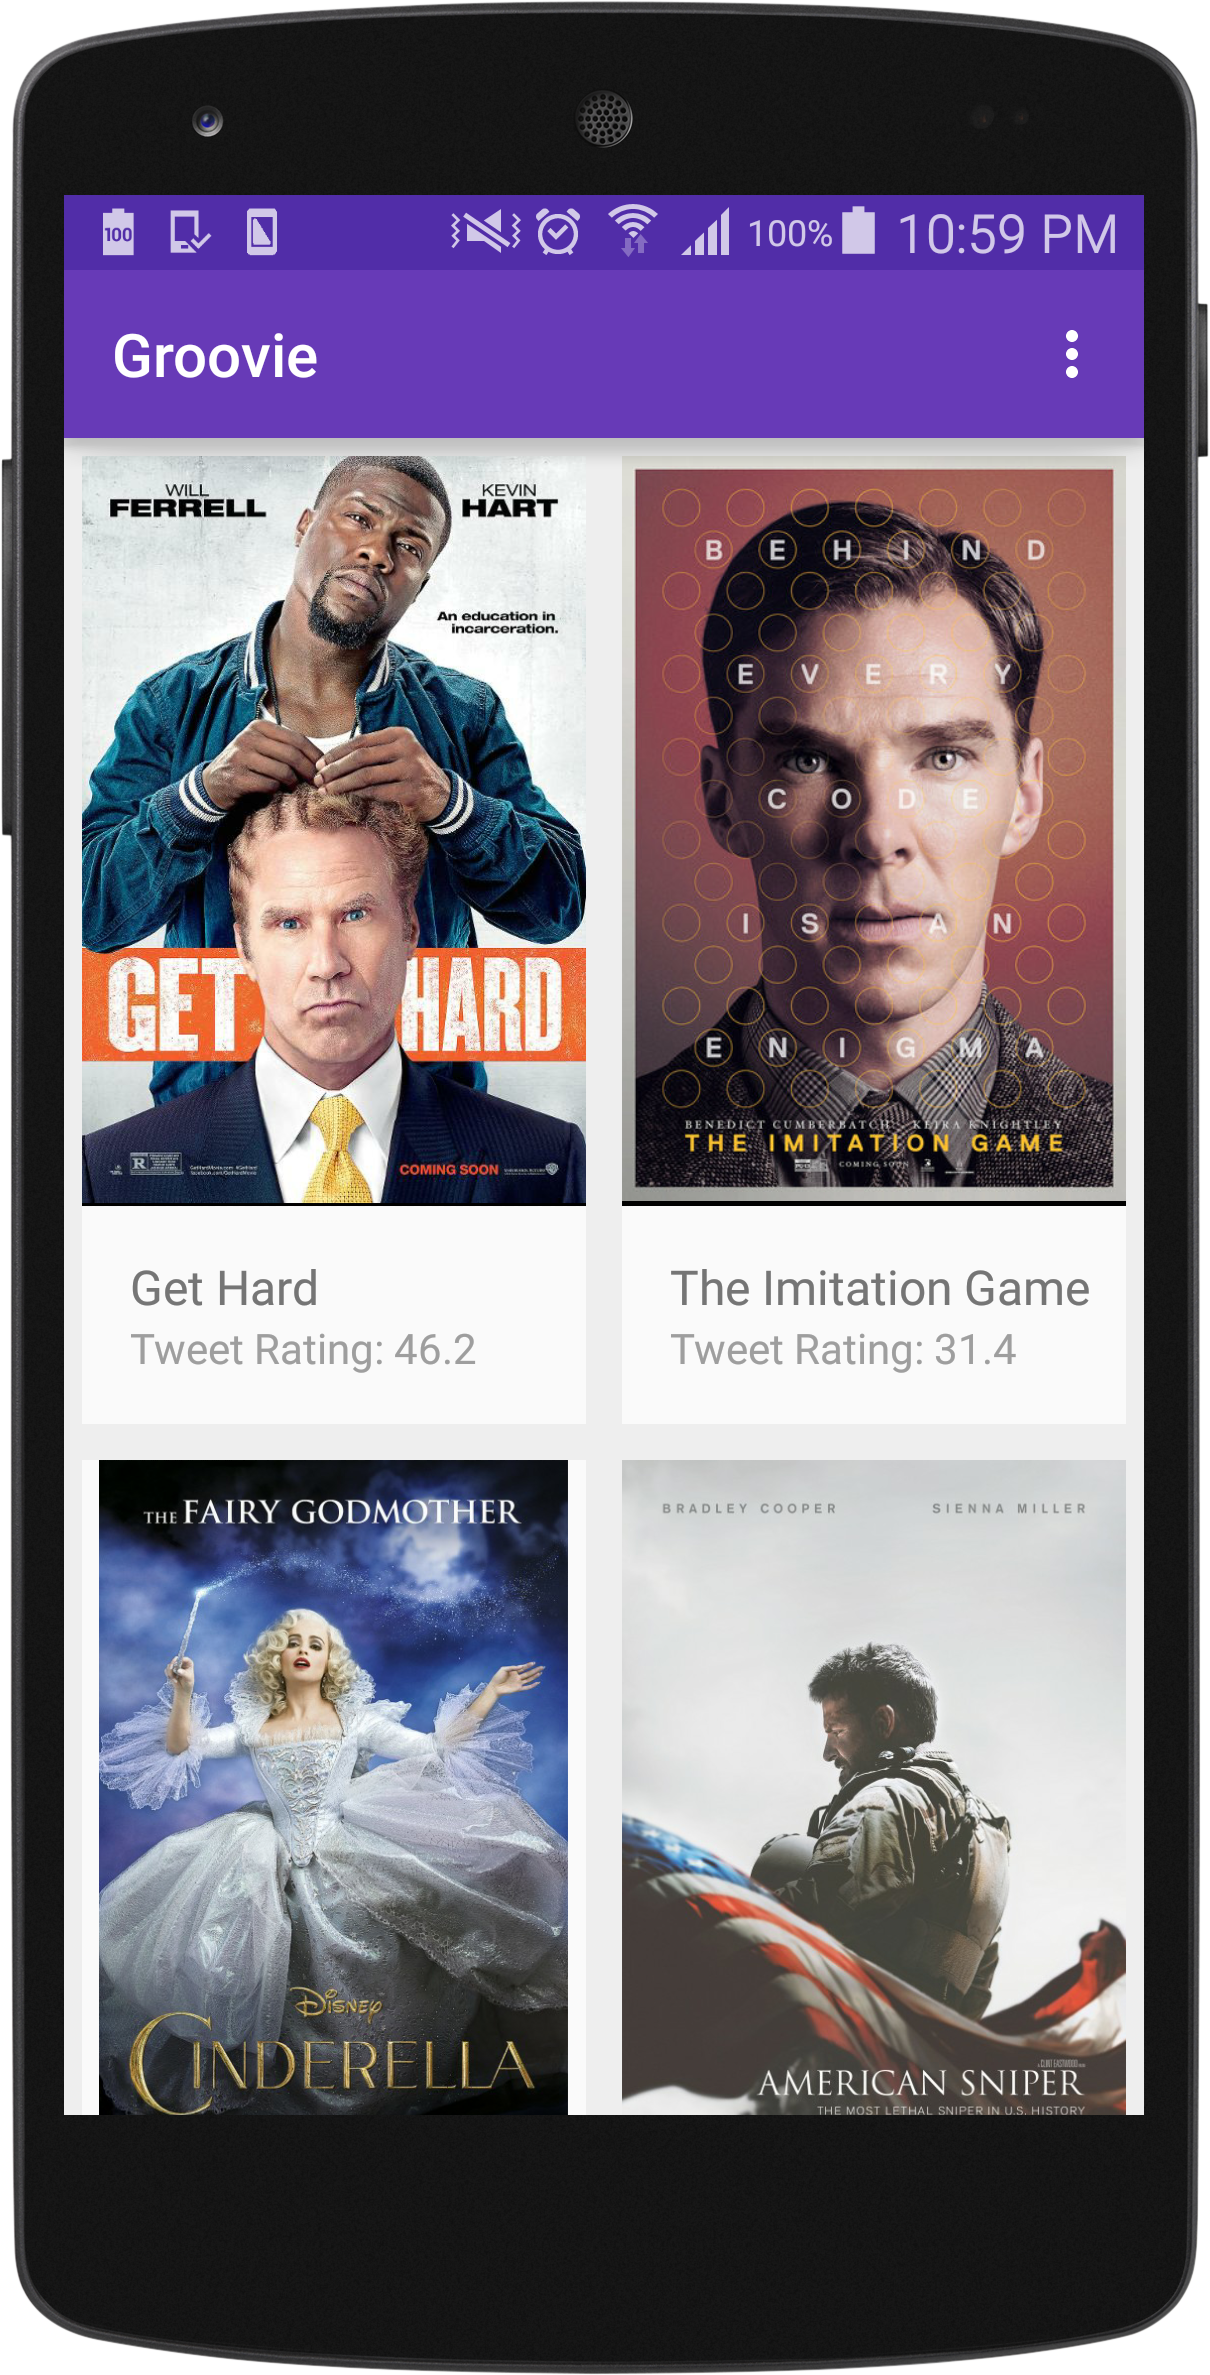
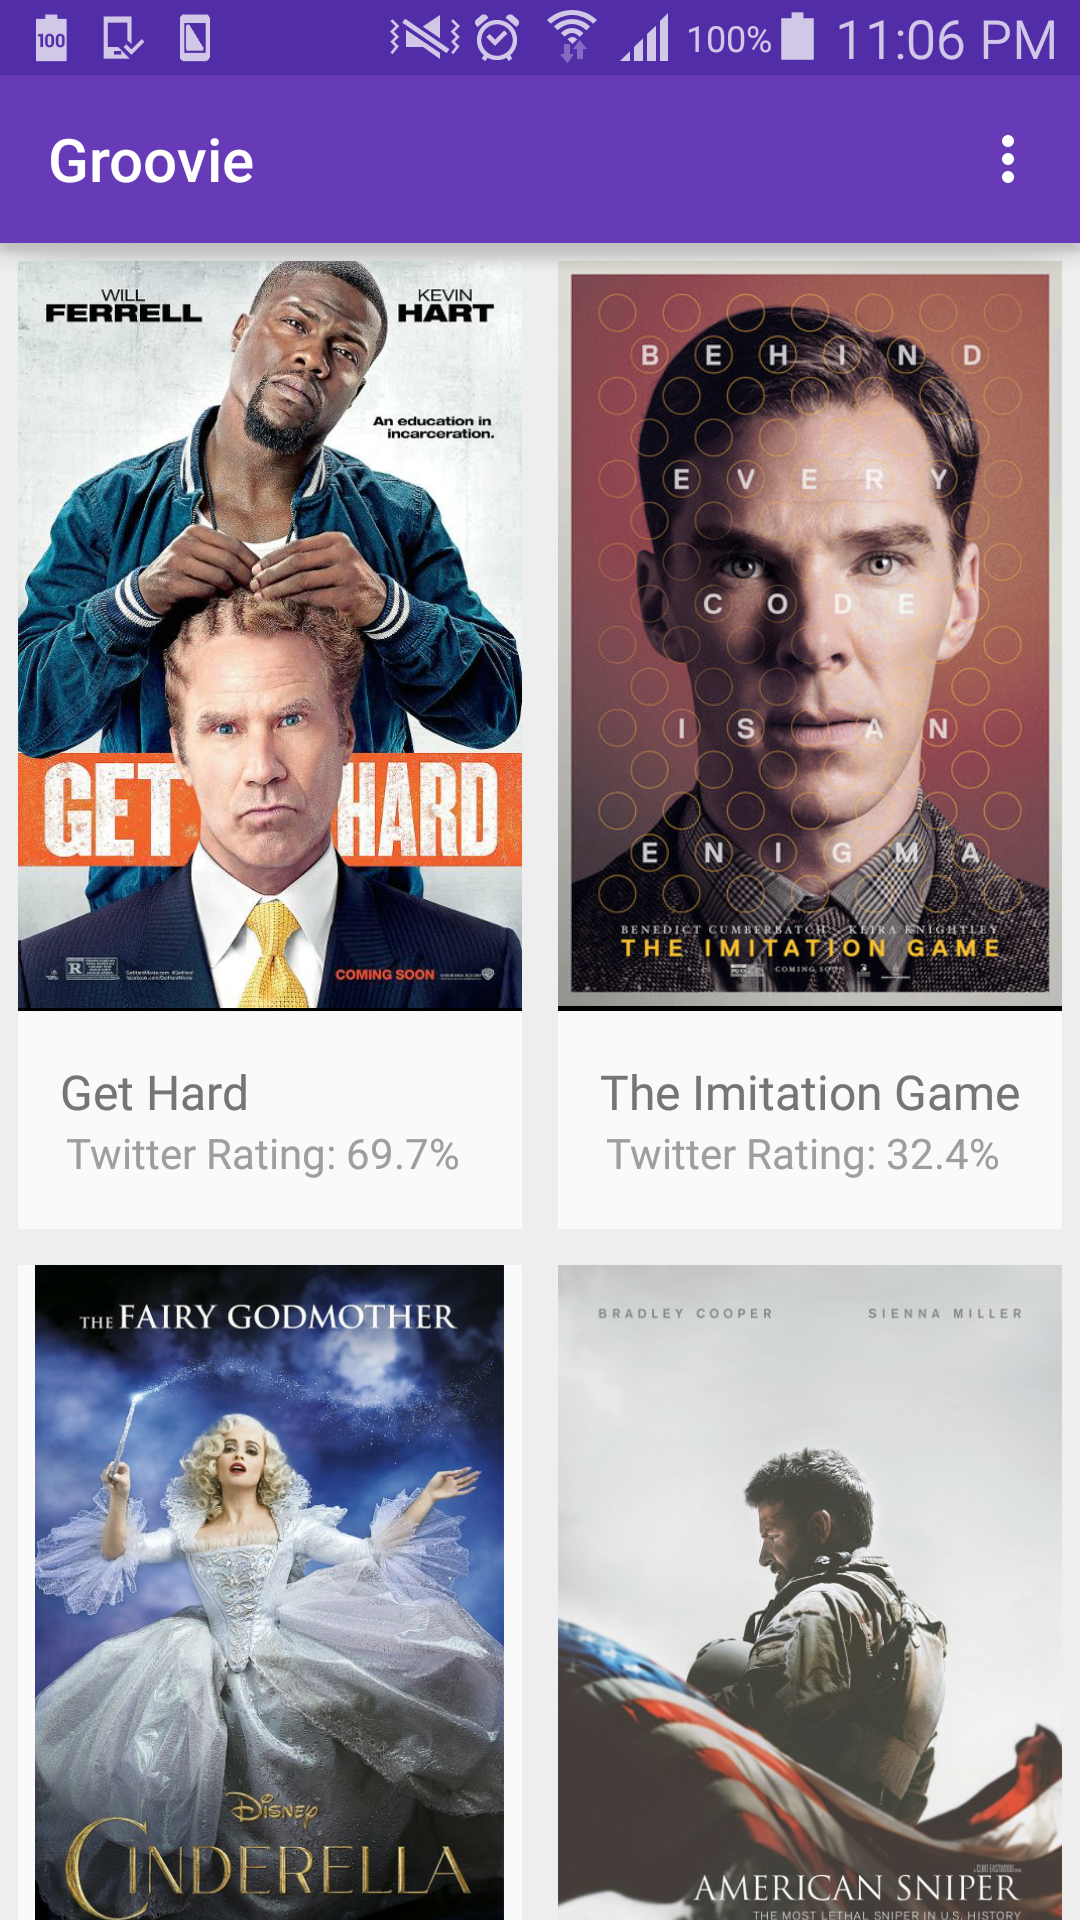
new image

diff --git a/GroovieApp/app/src/main/java/me/groovie/groovieapp/MovieDetailFragment.java b/GroovieApp/app/src/main/java/me/groovie/groovieapp/MovieDetailFragment.java
@@ -60,7 +60,7 @@ public class MovieDetailFragment extends Fragment {
         //android.support.v7.widget.CardView cardView = (android.support.v7.widget.CardView) bannerView.findViewById(R.id.banner_cardview);
 
         TextView ratingTextView = (TextView) bannerView.findViewById(R.id.movie_rating_textview);
-        ratingTextView.setText(rating);
+        ratingTextView.setText("Twitter Rating: "+ rating+"%");
 
         listView.addHeaderView(bannerView);
         ArrayList<Tweet> tweets = new ArrayList<Tweet>();

diff --git a/GroovieApp/app/src/main/java/me/groovie/groovieapp/adapters/MovieArrayAdapter.java b/GroovieApp/app/src/main/java/me/groovie/groovieapp/adapters/MovieArrayAdapter.java
@@ -41,7 +41,7 @@ public class MovieArrayAdapter extends ArrayAdapter<MovieReview> {
             nameTextView.setText(review.name);
 
             TextView ratingTextView= (TextView)convertView.findViewById(R.id.movie_rating_textview);
-            ratingTextView.setText("Tweet Rating: "+review.rating);
+            ratingTextView.setText("Twitter Rating: "+ review.rating+"%");
         }
         catch (NullPointerException e){}
 
